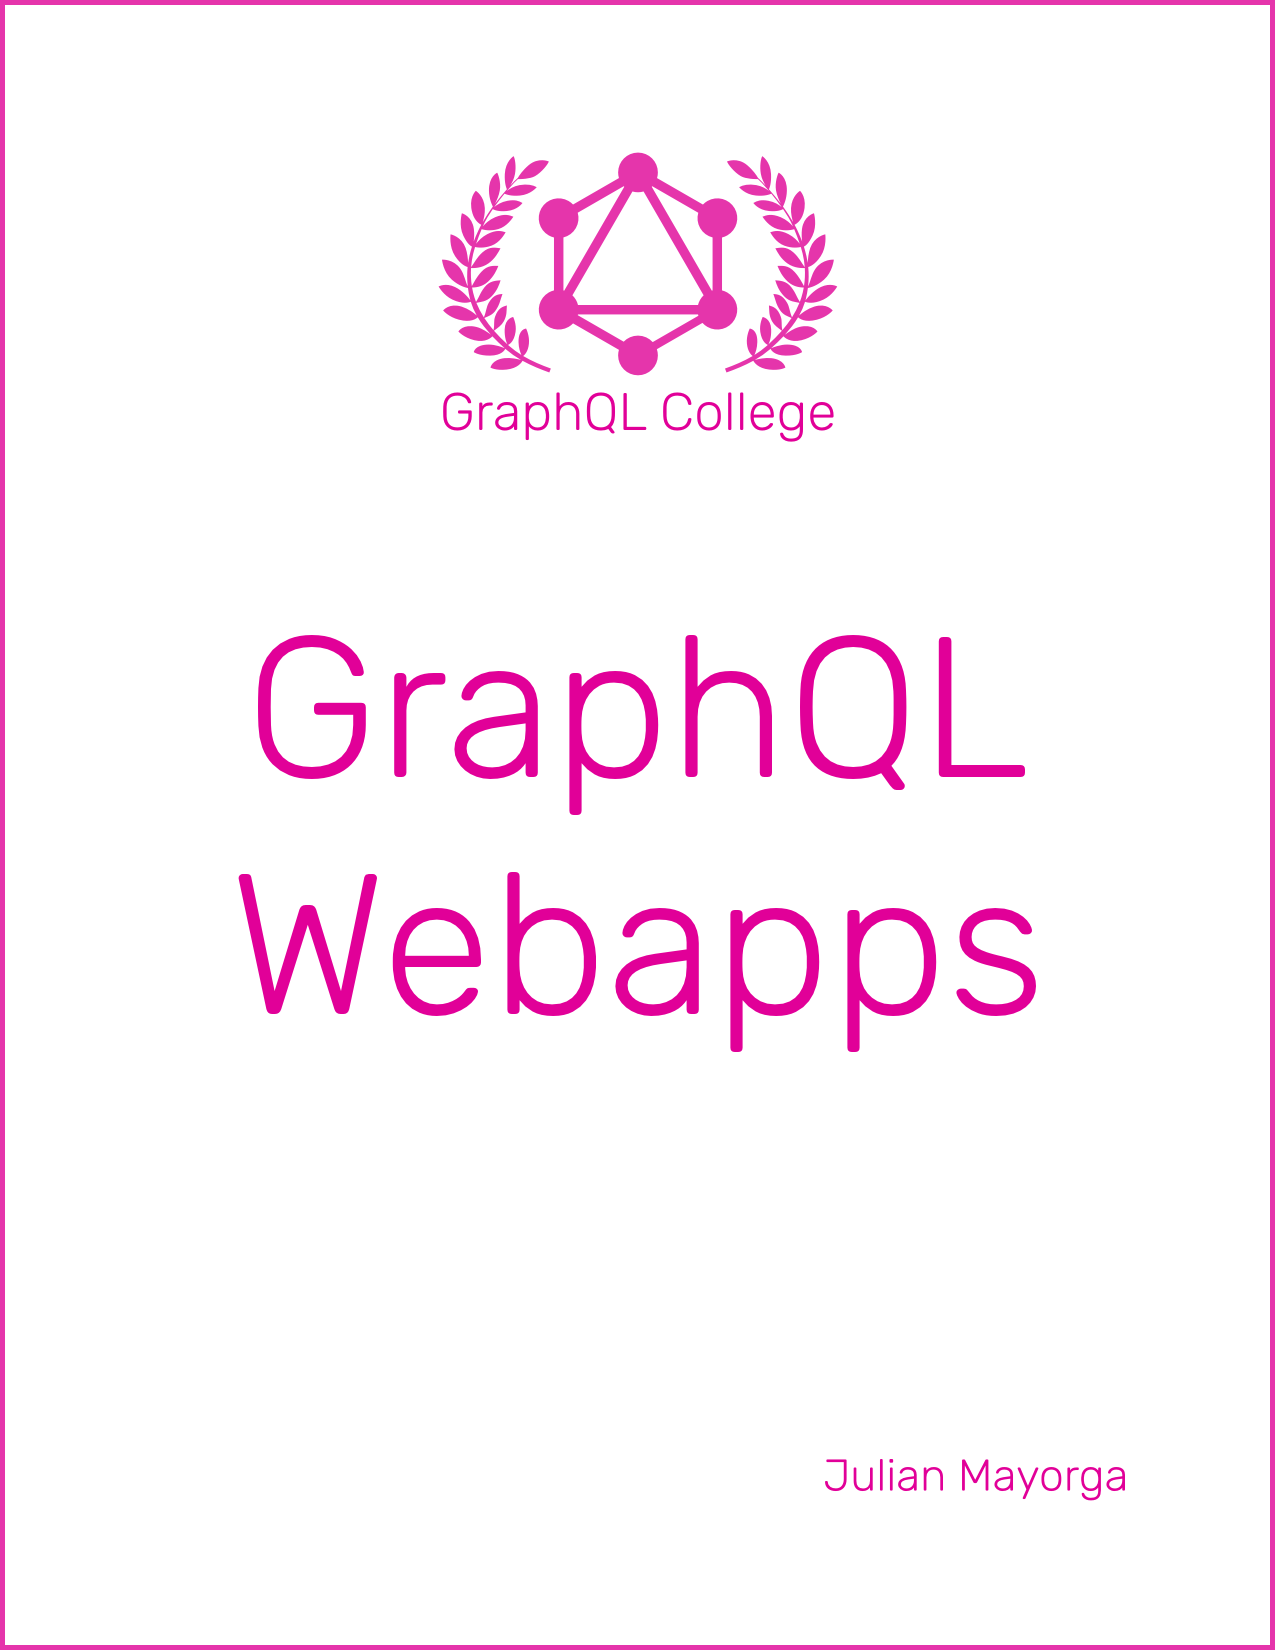
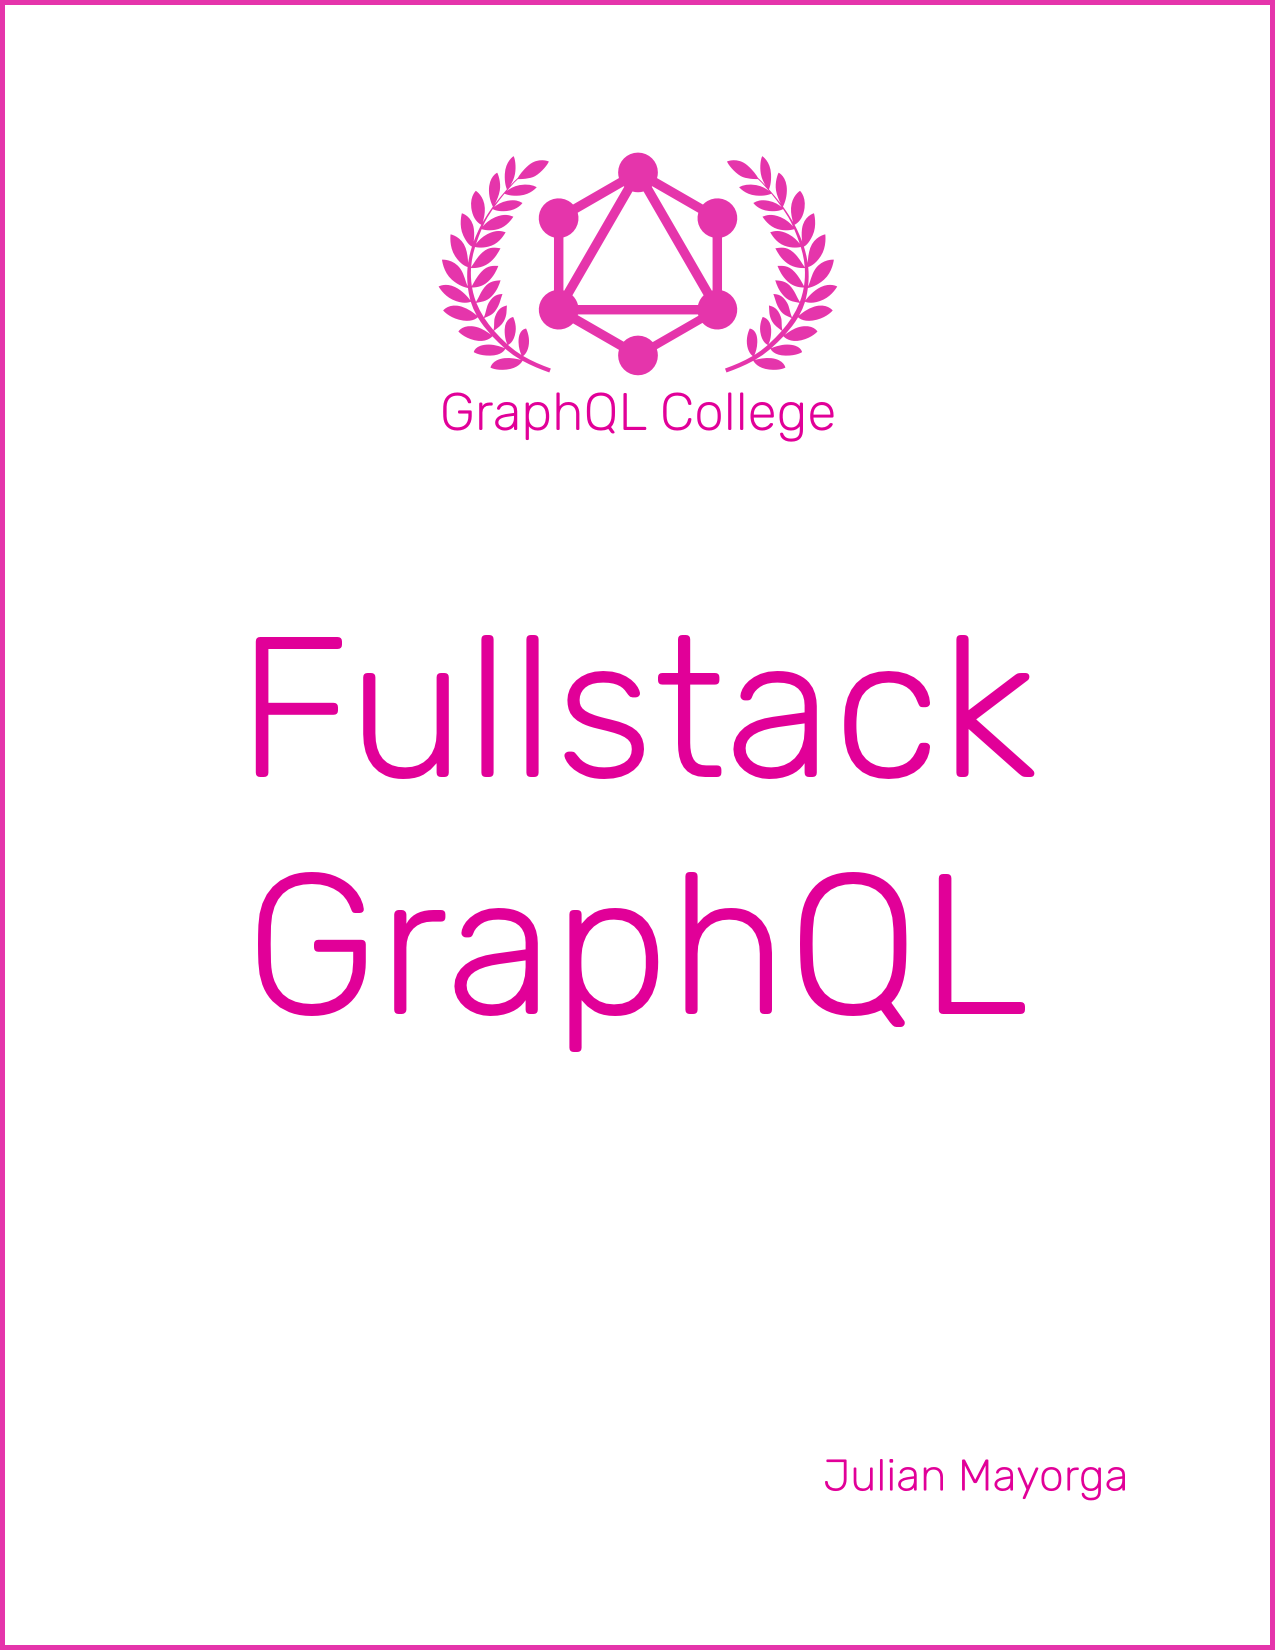
Rename book to Fullstack GraphQL

Changed region(s): [[0.1835, 0.3709, 0.7953, 0.4945], [0.1835, 0.5255, 0.8259, 0.6491]]

diff --git a/manuscript/chapter-2.md b/manuscript/chapter-2.md
@@ -329,8 +329,8 @@ eyJhbGciOiJIUzI1NiIsInR5cCI6IkpXVCJ9...
     "addPin": {
       "id": "f5220ee1-bfeb-48a0-be9f-c63d055b8139",
       "title": "Hello world",
-      "link": "http://graphql.college/graphql-webapps",
-      "image": "http://graphql.college/graphql-webapps",
+      "link": "http://graphql.college/fullstack-graphql",
+      "image": "http://graphql.college/fullstack-graphql",
       "user_id": "75c16079-b3ef-43f0-a352-ae03f2488baa"
     }
   }

diff --git a/README.md b/README.md
@@ -1,7 +1,7 @@
-# GraphQL Webapps
+# Fullstack GraphQL
 
 Book about full stack GraphQL development with React and Node.
 
-<a href="https://graphql.college/graphql-webapps">
+<a href="https://graphql.college/fullstack-graphql">
   <img src="manuscript/images/title_page.png" width="400px" alt="Cover" />
 </a>
